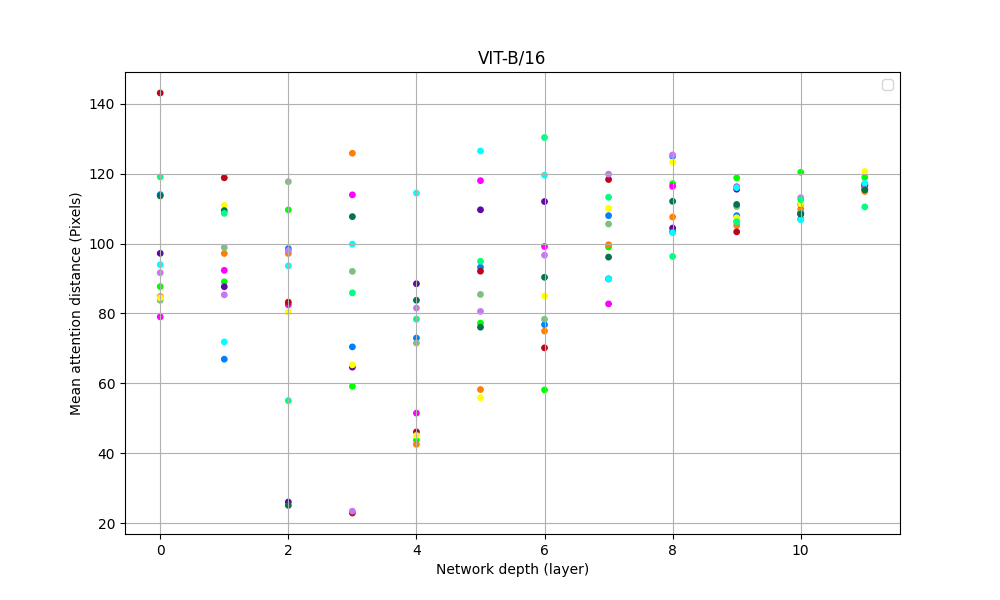
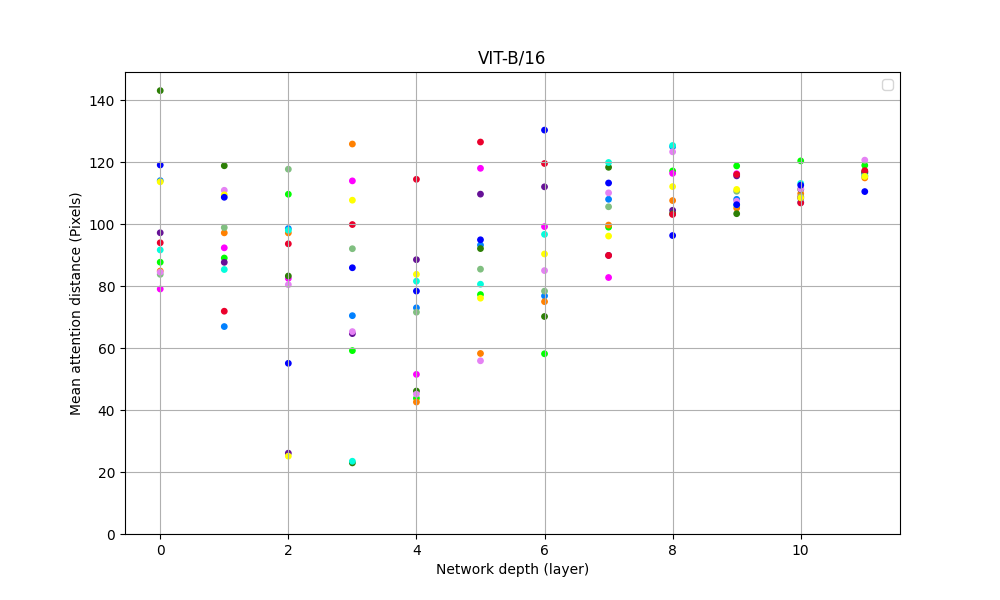
Add VIT trained from scratch attention distance graph

diff --git a/locality/vit_locality.py b/locality/vit_locality.py
@@ -64,33 +64,37 @@ if __name__ == '__main__':
     parser.add_argument('--weights', type=str, default=None)
     args = parser.parse_args()
 
-    weights = None
+    vit_weights = None
     if args.weights is not None:
-        weights = torch.load(args.weights)
+        weights = torch.load(args.weights, map_location=torch.device('cpu'))
+        # We remove the head in our implementation, so replace them with 0s. They aren't relevant for attention
+        # calculations.
+        vit_weights = {'heads.head.weight': torch.zeros(1000, 768), 'heads.head.bias': torch.zeros(1000)}
+        for key, value in weights.items():
+            if key.startswith('vit.'):
+                vit_weights[key[4:]] = value
 
     if args.model == 'base':
-        if weights is None:
-            weights = models.ViT_B_16_Weights.DEFAULT
-        model = vit_b_16(weights=weights)
+        model = vit_b_16(weights=models.ViT_B_16_Weights.DEFAULT)
         patch_size = 16
         image_size = 224
         title = 'VIT-B/16'
     elif args.model == 'large':
-        if weights is None:
-            weights = models.ViT_L_16_Weights.DEFAULT
-        model = vit_l_16(weights=weights)
+        model = vit_l_16(weights=models.ViT_L_16_Weights.DEFAULT)
         patch_size = 16
         image_size = 224
         title = 'VIT-L/16'
     elif args.model == 'huge':
-        if weights is None:
-            weights = models.ViT_H_14_Weights.DEFAULT
-        model = vit_h_14(weights=weights)
+        model = vit_h_14(weights=models.ViT_H_14_Weights.DEFAULT)
         patch_size = 14
         image_size = 518
         title = 'VIT-H/14'
     else:
         raise NotImplementedError('Unsupported model type')
+
+    if vit_weights is not None:
+        title += ' (trained from scratch)'
+        model.load_state_dict(vit_weights)
 
     model.eval()
 
@@ -144,10 +148,14 @@ if __name__ == '__main__':
 
     plt.xlabel('Network depth (layer)')
     plt.ylabel('Mean attention distance (Pixels)')
+    plt.ylim(bottom=0)
     plt.title(title)
     plt.legend()
     plt.grid()
     dir_name = os.path.dirname(__file__)
-    file_name = os.path.join(dir_name, args.model + '_vit_locality.png')
+    file_name = os.path.join(dir_name, args.model + '_vit_locality')
+    if vit_weights is not None:
+        file_name += '_scratch'
+    file_name += '.png'
     plt.savefig(file_name)
     plt.show()
